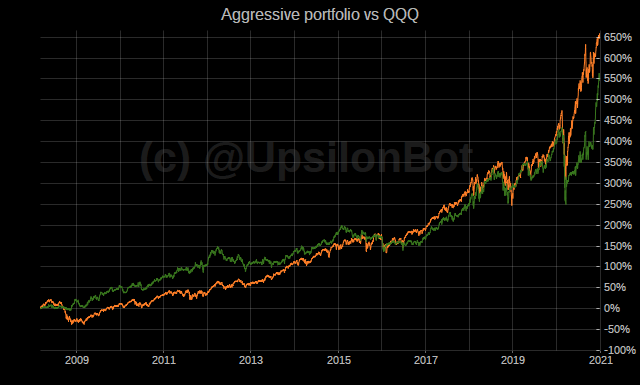
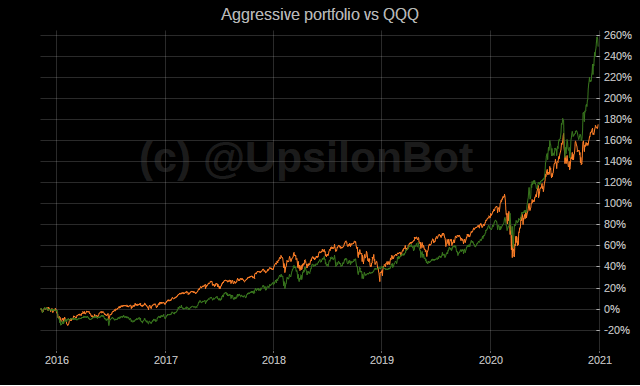
autoupdate 2021-01-09-23:50:45

diff --git a/tester/tester.py b/tester/tester.py
@@ -343,18 +343,18 @@ if __name__ == '__main__':
     # main()
     mp.set_start_method('spawn')
     q = mp.Queue()
-    p1 = mp.Process(target=portfolio_tester, args=(10000, 'parking', 3, 12, datetime.date(2008, 1, 1),))
-    p1.start()
-    p2 = mp.Process(target=portfolio_tester, args=(10000, 'allweather', 3, 12, datetime.date(2008, 1, 1),))
-    p2.start()
-    p3 = mp.Process(target=portfolio_tester, args=(10000, 'balanced', 3, 12, datetime.date(2008, 1, 1),))
-    p3.start()
-    p4 = mp.Process(target=portfolio_tester, args=(10000, 'aggressive', 3, 12, datetime.date(2008, 1, 1),))
+    # p1 = mp.Process(target=portfolio_tester, args=(10000, 'parking', 3, 12, datetime.date(2008, 1, 1),))
+    # p1.start()
+    # p2 = mp.Process(target=portfolio_tester, args=(10000, 'allweather', 3, 12, datetime.date(2008, 1, 1),))
+    # p2.start()
+    # p3 = mp.Process(target=portfolio_tester, args=(10000, 'balanced', 3, 12, datetime.date(2008, 1, 1),))
+    # p3.start()
+    p4 = mp.Process(target=portfolio_tester, args=(10000, 'aggressive', 3, 12, datetime.date(2015, 11, 1),))
     p4.start()
-    p5 = mp.Process(target=portfolio_tester, args=(10000, 'leveraged', 3, 12,  datetime.date(2010, 6, 1),))
+    p5 = mp.Process(target=portfolio_tester, args=(10000, 'leveraged', 3, 12,  datetime.date(2015, 11, 1),))
     p5.start()
-    p1.join()
-    p2.join()
-    p3.join()
+    # p1.join()
+    # p2.join()
+    # p3.join()
     p4.join()
     p5.join()

diff --git a/quotes/portfolios/rp_portfolio.py b/quotes/portfolios/rp_portfolio.py
@@ -258,6 +258,18 @@ class RiskParityAllocator:
                 zs_2 = (mom2 - rets2.mean()) / rets2.std()
                 performance_df[col] = 0.5*zs_1 + 0.5*zs_2
 
+            elif self.selector_type == 20:  # %Ch Calendar
+                df1 = date_slicer(df_=df, c_period=self.c_p1)
+                mom = ((df1[col].iloc[-1] - df1[col].iloc[0]) / df1[col].iloc[0])
+                performance_df[col] = mom
+
+            elif self.selector_type == 21:  # %Ch 2 periods Calendar
+                df1 = date_slicer(df_=df, c_period=self.c_p1)
+                mom1 = ((df1[col].iloc[-1] - df1[col].iloc[0]) / df1[col].iloc[0])
+                df2 = date_slicer(df_=df, c_period=self.c_p2)
+                mom2 = ((df2[col].iloc[-1] - df2[col].iloc[0]) / df2[col].iloc[0])
+                performance_df[col] = 0.5*mom1 + 0.5*mom2
+
             # elif self.selector_type == 14:  # Down GLS Calendar zs
             #
             #     dn = 0
